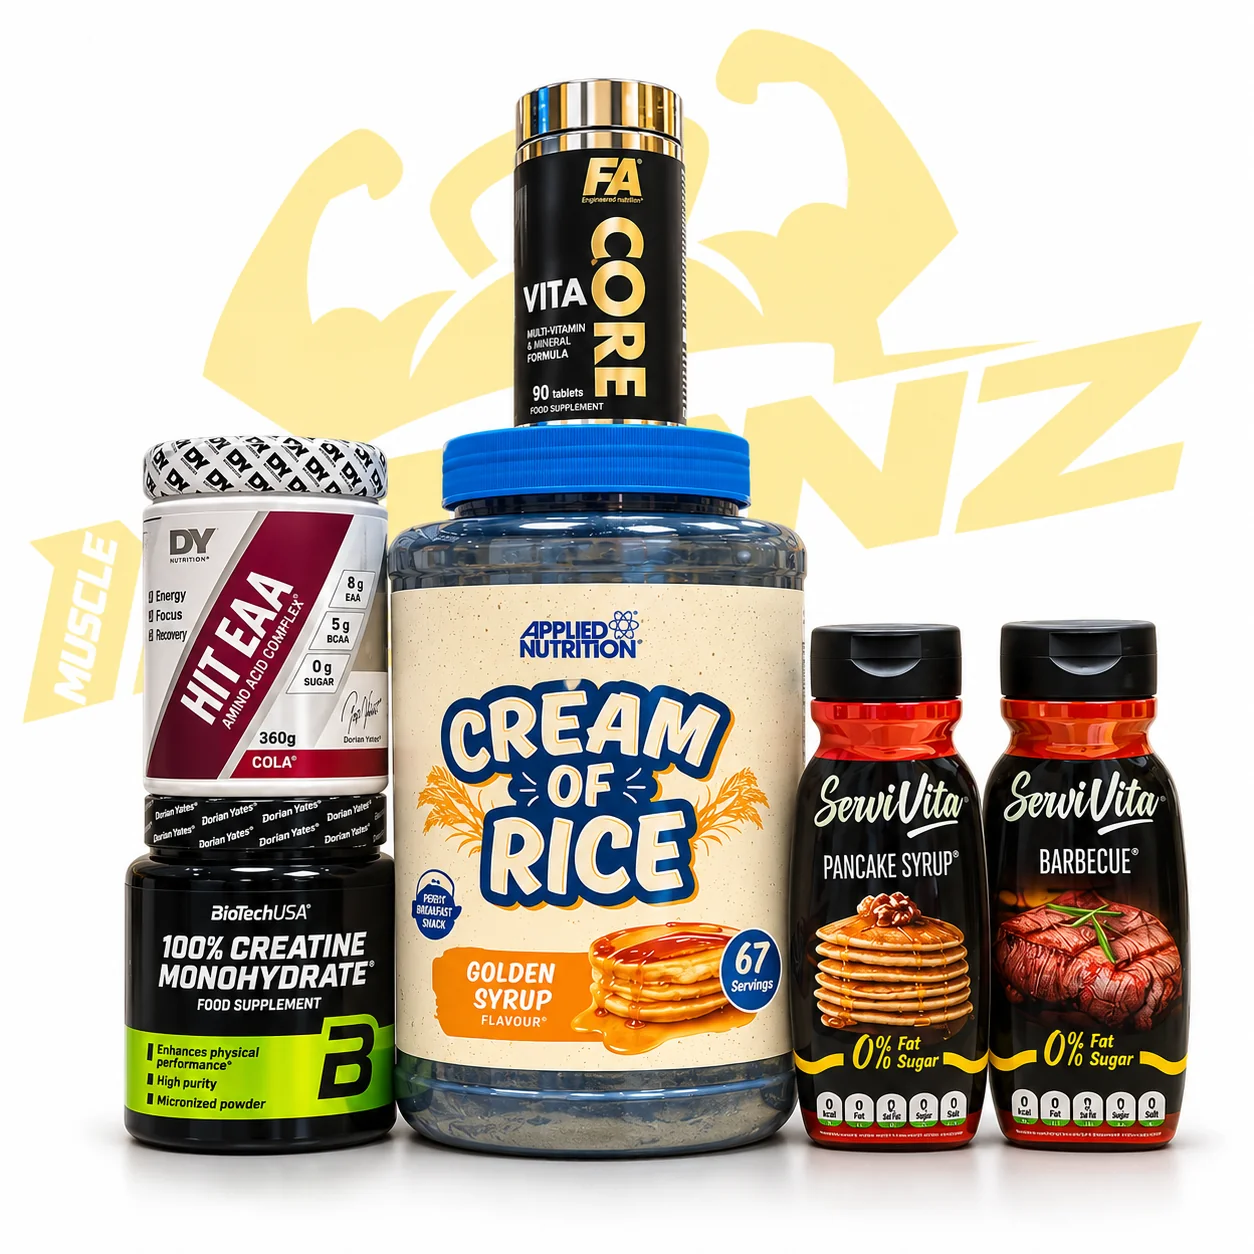
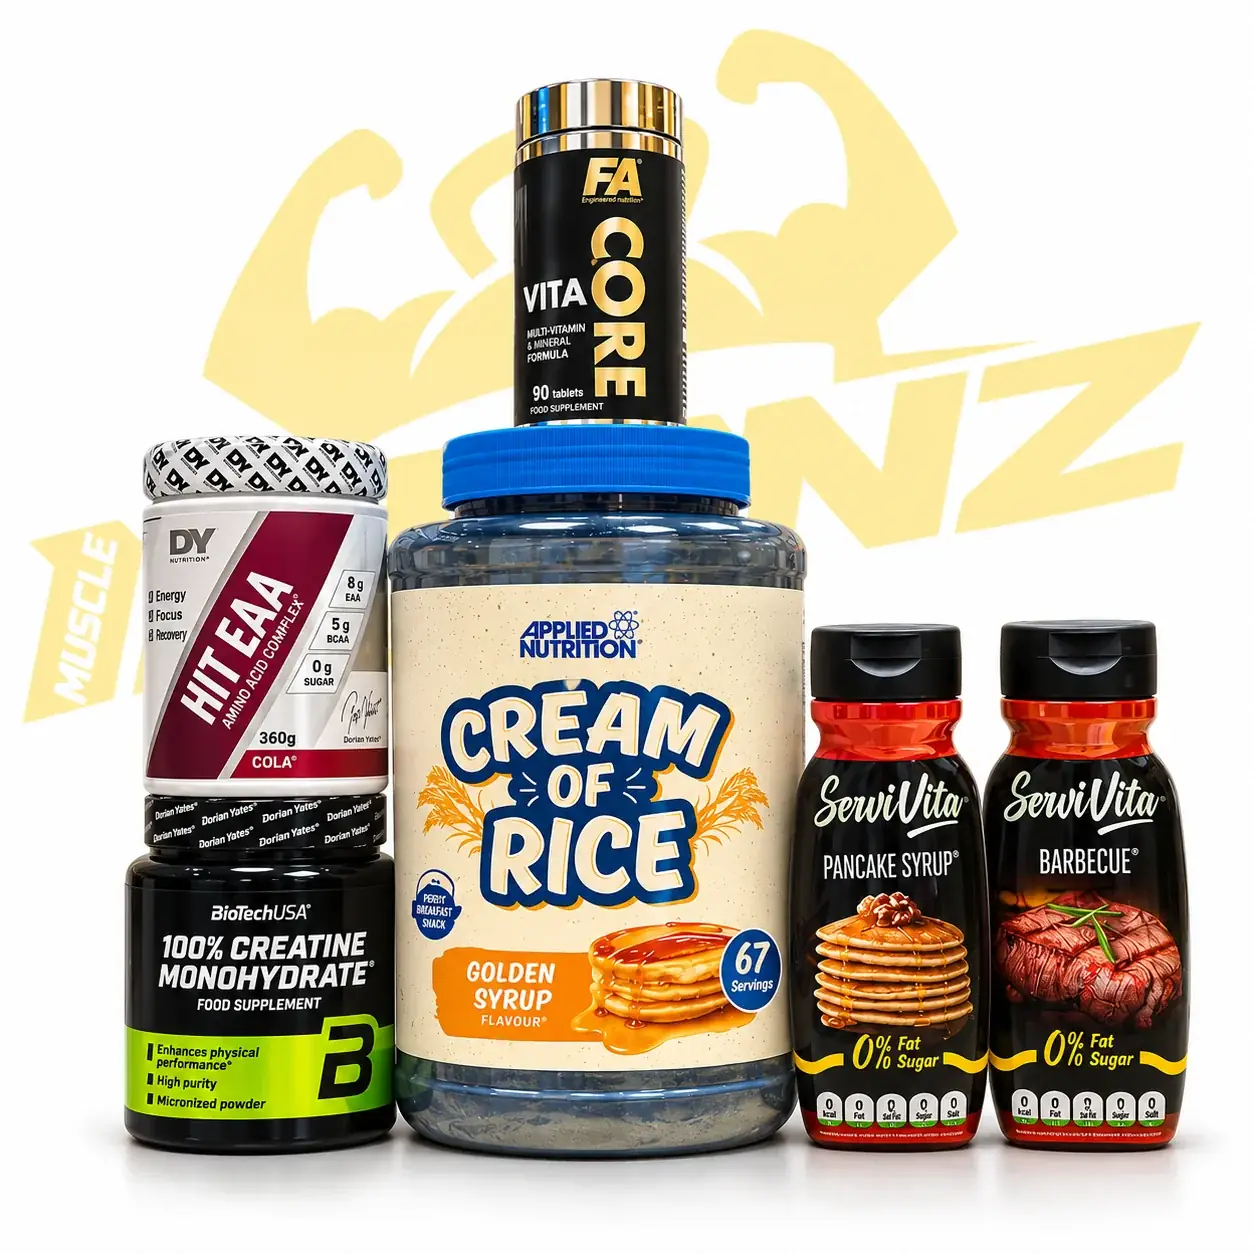
perf: serve lightweight static Black Friday images

Changed region(s): [[0.3732, 0.7775, 0.4354, 0.8086], [0.5598, 0.622, 0.5909, 0.6531]]

diff --git a/components/black-friday-product.tsx b/components/black-friday-product.tsx
@@ -1,4 +1,4 @@
-import Image from "next/image";
+import BlackFridayImage from "./black-friday-image";
 import Link from "next/link";
 import { PackIcon } from "./black-friday-icons";
 import { BLACK_FRIDAY_PACKS, getBlackFridaySavings, type BlackFridayPack } from "../lib/black-friday";
@@ -24,7 +24,7 @@ export default function BlackFridayProduct({ pack }: { pack: BlackFridayPack }) 
         </nav>
         <div className="grid items-start gap-8 lg:grid-cols-2 lg:gap-14">
           <div className="overflow-hidden rounded-xl bg-white">
-            <Image src={pack.image} alt={pack.imageAlt} width={1254} height={1254} preload quality={60} sizes="(max-width: 1023px) 100vw, 650px" className="aspect-square h-auto w-full object-contain" />
+            <BlackFridayImage src={pack.image} alt={pack.imageAlt} eager priority sizes="(max-width: 1023px) calc(100vw - 32px), 650px" className="aspect-square h-auto w-full object-contain" />
           </div>
           <div className="lg:py-4">
             <Link href="/black-friday" className="inline-flex min-h-11 items-center text-xs font-semibold uppercase tracking-widest text-yellow-400">Tous les packs Black Friday</Link>
@@ -55,7 +55,7 @@ export default function BlackFridayProduct({ pack }: { pack: BlackFridayPack }) 
         <section aria-labelledby="other-packs" className="mt-12 border-t border-white/15 pt-8 sm:mt-16">
           <div className="mb-6 flex flex-wrap items-center justify-between gap-4"><h2 id="other-packs" className="font-display text-3xl uppercase">Comparez les autres packs</h2><Link href="/black-friday" className="text-sm text-yellow-400 underline underline-offset-4">Voir les 6 offres</Link></div>
           <div className="grid grid-cols-2 gap-3 sm:gap-5 xl:grid-cols-4">{related.map((item) => <Link key={item.id} href={`/produit/${item.slug}`} className="overflow-hidden rounded-xl border border-white/10 bg-zinc-900 focus-visible:outline-2 focus-visible:outline-yellow-400">
-            <Image src={item.image} alt={item.imageAlt} width={600} height={600} quality={60} sizes="(max-width: 1279px) 50vw, 25vw" className="aspect-square w-full object-contain" />
+            <BlackFridayImage src={item.image} alt={item.imageAlt} sizes="(max-width: 1279px) 50vw, 25vw" className="aspect-square w-full object-contain" />
             <div className="p-3 sm:p-5"><h3 className="font-display text-lg uppercase sm:text-xl">{item.name}</h3><p className="mt-2 text-sm font-semibold text-yellow-400">{price(item.price)}</p></div>
           </Link>)}</div>
         </section>

diff --git a/components/black-friday-section.tsx b/components/black-friday-section.tsx
@@ -1,7 +1,7 @@
 "use client";
 
 import { useState } from "react";
-import Image from "next/image";
+import BlackFridayImage from "./black-friday-image";
 import Link from "next/link";
 import { PackIcon } from "./black-friday-icons";
 import { BLACK_FRIDAY_PACKS, getBlackFridaySavings } from "../lib/black-friday";
@@ -51,7 +51,7 @@ export default function BlackFridaySection({ standalone = false }: { standalone?
             return (
               <article key={pack.id} className={`${styles.card} group flex min-w-0 flex-col overflow-hidden rounded-lg border border-white/10 bg-[#1b1b1b] hover:border-yellow-400/50`}>
                 <Link href={href} aria-label={`Découvrir ${pack.name}`} className="block overflow-hidden bg-white focus-visible:outline-2 focus-visible:outline-yellow-400 focus-visible:-outline-offset-4">
-                  <Image src={pack.image} alt={pack.imageAlt} width={1000} height={1000} quality={60} preload={standalone && index === 0} sizes="(max-width: 639px) calc(50vw - 22px), (max-width: 1023px) 50vw, (max-width: 1399px) 33vw, 430px" className={`${styles.photo} aspect-square w-full object-contain`} />
+                  <BlackFridayImage src={pack.image} alt={pack.imageAlt} eager={standalone && index < 3} priority={standalone && index === 0} sizes="(max-width: 639px) calc(50vw - 22px), (max-width: 1023px) 50vw, (max-width: 1399px) 33vw, 430px" className={`${styles.photo} aspect-square w-full object-contain`} />
                 </Link>
                 <div className="flex flex-1 flex-col px-3 pb-3 pt-4 sm:px-6 sm:pb-4 sm:pt-6">
                   <p className="mb-2 min-h-8 text-[10px] font-medium leading-4 text-yellow-400 sm:min-h-0 sm:text-xs">{pack.subtitle}</p>

diff --git a/components/black-friday-image.tsx b/components/black-friday-image.tsx
@@ -1,0 +1,33 @@
+import imageData from "../data/black-friday-images.json";
+
+const images: Record<string, { srcSet: string; placeholder: string }> = imageData;
+
+type Props = {
+  src: string;
+  alt: string;
+  sizes: string;
+  className?: string;
+  eager?: boolean;
+  priority?: boolean;
+};
+
+export default function BlackFridayImage({ src, alt, sizes, className, eager = false, priority = false }: Props) {
+  const image = images[src];
+  return (
+    // These hashed, pre-generated WebP variants bypass request-time image resizing.
+    // eslint-disable-next-line @next/next/no-img-element
+    <img
+      src={src}
+      srcSet={image?.srcSet}
+      sizes={sizes}
+      alt={alt}
+      width={1254}
+      height={1254}
+      loading={eager ? "eager" : "lazy"}
+      fetchPriority={priority ? "high" : "auto"}
+      decoding="async"
+      className={className}
+      style={image ? { backgroundImage: `url("${image.placeholder}")`, backgroundSize: "100% 100%", backgroundRepeat: "no-repeat" } : undefined}
+    />
+  );
+}

diff --git a/design/black-friday-assets.md b/design/black-friday-assets.md
@@ -2,7 +2,9 @@
 
 Tool: built-in `image_gen`, image edit mode. The six original posters remain in `public/black-friday/`. The supplied white and pale-yellow IRONZ background is preserved as `public/black-friday/ironz-background.png`.
 
-The edited product photos are 1254 × 1254 pixels. The selected outputs were encoded as WebP at quality 85 with Sharp; no further creative edits were made during encoding. Next/Image serves responsive sizes at configured quality 60.
+The edited product photos are 1254 × 1254 pixels. Full-resolution delivery files use WebP quality 70. The responsive files use quality 55 at 240/384 pixels and quality 65 at 640/960 pixels. Only resizing and encoding are applied; the product composition remains unchanged.
+
+Run `node scripts/prepare-black-friday-images.mjs` to rebuild the responsive variants and their manifest. Filenames include content hashes for long-term browser caching. Native responsive HTML serves these static files without request-time resizing. The hero and first product row load eagerly; smaller inline previews appear while the full images download.
 
 ## Prompt template used for each image
 
